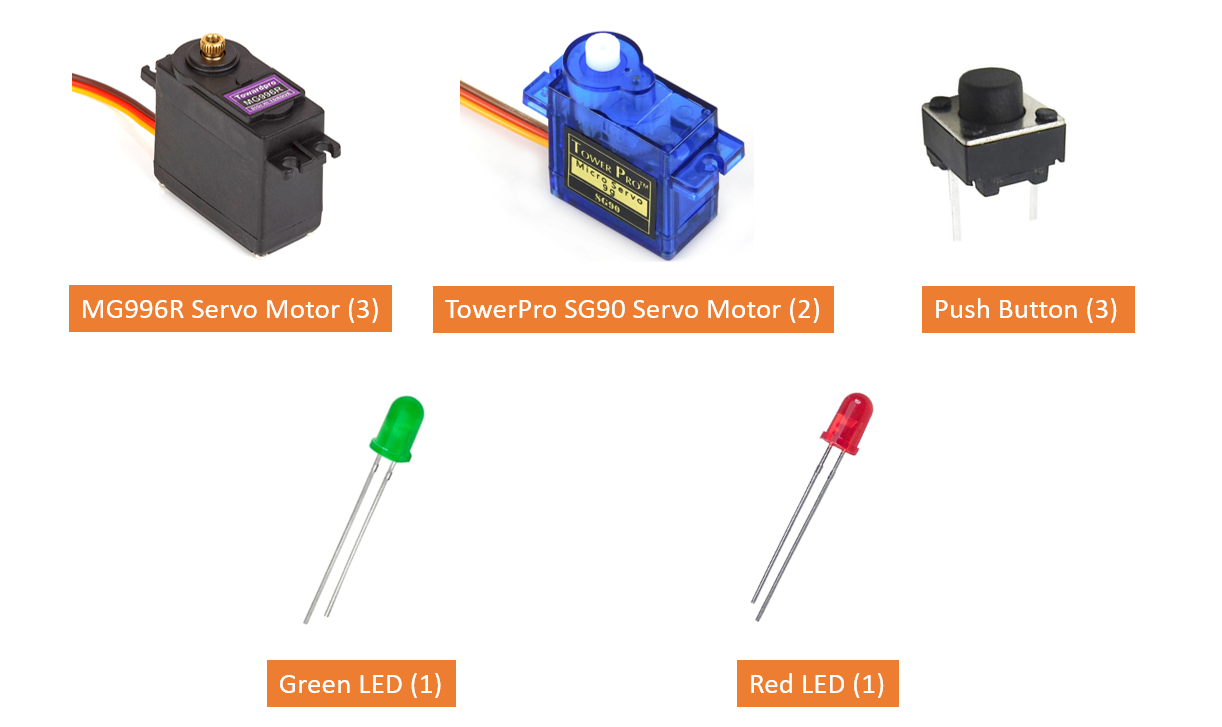
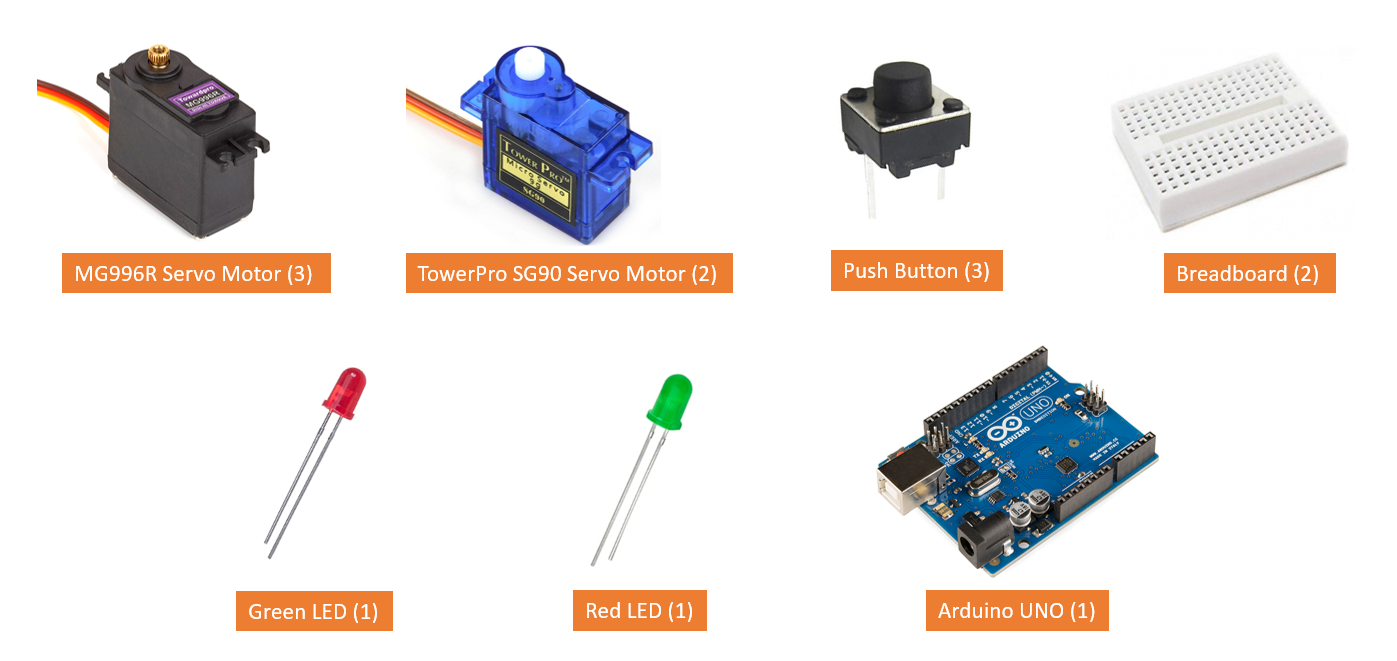
Add files via upload

diff --git a/ModuleProject.html b/ModuleProject.html
@@ -46,7 +46,7 @@
             <span style = "padding-left: 40px;"></span>
             
             <h2>Prototype</h2>
-            <p class="par">Since I am from the Diploma of Robotics and Mechatronics, I have some knowledge of making a 3D model as well as programming from scratch. However, I have never made an electrical schematic on my own. Therefore, I have decided to make a prototype.</p>
+            <p class="par">Since I am from the Diploma of Robotics and Mechatronics, I have some knowledge of making a 3D model as well as programming from scratch. However, I have never made an electrical schematic on my own. Therefore, I have decided to make a prototype to test whether my idea would or would not work.</p>
             
             <p class="par">Here's how the 3D model prototype looked like:</p>
             <figure><iframe src="https://hotmail196527.autodesk360.com/shares/public/SH35dfcQT936092f0e43699361576d931ffc?mode=embed" width="640" height="480" allowfullscreen="true" webkitallowfullscreen="true" mozallowfullscreen="true"  frameborder="0"></iframe></figure>
@@ -62,7 +62,7 @@
             <img src="ciruitprototype.png" style="padding-left: 20px;margin-top: 1%;width:640px;height:360px;margin-bottom: 0%;" >
             <figure><iframe src=https://create.arduino.cc/editor/jessicatan12/7c42b9af-6949-4e80-99c8-41a968559ba0/preview?embed style="height:510px;width:100%;margin:10px 0" frameborder=0></iframe></figure>
             <embed style="padding-left: 20px;margin-top: 0.5%;width:720px;height:450px;margin-bottom: 0.3%;" src="https://www.youtube.com/embed/pL3M1Fp5OXM">
-            <p class="par">I have learnt a lot from making the prototype. E.g. The tolerance value as the 3D printer does not print the exact size that I made in Fusion360, as well as designing the circuit all by myself. Now, let's move on to the final version of the Mini Robotic Arm project.</p>
+            <p class="par">I have learnt a lot from making the prototype. E.g. Tolerance value as the 3D printer does not print the exact size I have made in Fusion360, torque of the TowerPro SG90 Servo Motor, as well as designing the circuit all by myself. Now, let's move on to the final version of the Mini Robotic Arm project.</p>
             <span style = "padding-left: 40px;"></span>
             
             <h2>Final Mini Robotic Arm</h2>
@@ -75,12 +75,14 @@
             <p class="par"><strong><font color= #ff7200>Output Device :</font></strong> LEDs and Servo Motors.</p>
             <span style = "padding-left: 40px;"></span>
             <h4 class="par">How it'll work:</h4>
-            <p class="par">Since there are 3 Push Buttons, each Push Buttons contain a pre-programmed code. The <font color=00FF12>Green</font> LED would always be turned on when none of the Push Buttons are pressed. When any of the Push Button is pressed, the <font color=00FF12>Green</font> LED would turn off and the <font color=FF0000>Red </font> LED would turn on. The pre-programmed code would then be executed.</p>
+            <p class="par">Since there are 3 Push Buttons, each Push Button will contain a pre-programmed code. The <font color=00FF12>Green</font> LED would always be turned on when none of the Push Buttons are pressed. When any of the Push Button is pressed, the <font color=00FF12>Green</font> LED would turn off and the <font color=FF0000>Red </font> LED would turn on. The pre-programmed code would then be executed.</p>
             
             <span style = "padding-left: 40px;"></span>
             
             <h4 class="par">Bill of Materials:</h4>
-            <img src="BOM.png" style="padding-left: 20px;margin-top: 1%;width:820px;height:480px;margin-bottom: 3.5%;" >
+            <img src="BOM.png" style="padding-left: 20px;margin-top: 1%;width:960px;height:480px;margin-bottom: 0%;" >
+            <p class="par">I decided to use 3 MG996R Servo Motors as the torque is much higher. A higher torque value means that I do not have to worry about the weight the Servo Motor has to carry.</p>
+            <span style = "padding-left: 40px;"></span>
             
             <h4 class="par">Here's the final 3D Model:</h4>
             <figure><iframe src="https://hotmail196527.autodesk360.com/shares/public/SH35dfcQT936092f0e43a5886664a30bba13?mode=embed" width="640" height="480" allowfullscreen="true" webkitallowfullscreen="true" mozallowfullscreen="true"  frameborder="0"></iframe></figure>
@@ -130,11 +132,12 @@
             
             <h2>Final Electrical Circuit</h2>
             <img src="finalcircuit.png" style="padding-left: 20px;margin-top: 1%;width:960px;height:540px;margin-bottom: 1%;" >
-            <p class="par">For the electrical circuit, I will be using an external power source to power it. This is because I am having 5 servo motors in my circuit. The current drawn from these motors would be really high. The 5V source from the Arduino UNO would not be able to handle it. I have also removed 3 resistors, which was suppose to be connected by the Push Button. The reason why I am able to remove the resistors is due to my code. I will be explaining it below. </p>
+            <img src="robotwiring.PNG" style="padding-left: 20px;margin-top: 1%;width:960px;height:540px;margin-bottom: 1%;" >
+            <p class="par">For the electrical circuit, I will be using an external power source to power it. This is because I am having 5 servo motors in my circuit. The current drawn from these motors would be really high. The 5V source from the Arduino UNO would not be able to handle it. I have also removed 3 resistors, which was suppose to be connected with the Push Buttons. The reason why I am able to remove the resistors is due to my code. I will be explaining it at the Programming part.</p>
             
             <h2>Fabrication</h2>
             <p class="par">How I'll be fabricating my 3D model parts is by Laser Cutting and 3D Printing.</p>
-            <p class="par">For Laser Cutting, I would need to import the 2D face and get the .svg file.</p>
+            <p class="par">For Laser Cutting, I would need to import the 2D face of the 3D model, and get the .svg file.</p>
             <h4 class="par">Here's the final .svg files:</h4>
             <embed src="robotinkscape.pdf" type="application/pdf" />
             <embed style="padding-left: 20px;margin-top: 0.5%;width:720px;height:450px;margin-bottom: 0%;" src="https://www.youtube.com/embed/Lh-30nCYH2M">
@@ -149,10 +152,11 @@
             
             <h2>Troubleshooting</h2>
             <p class="par">After assembling the Mini Robotic Arm, I decided to test out each servo motor individually. The code I used is just to make the servo motor move 180 degrees clockwise, anticlockwise, and then stop. However, I have faced a problem. The servo motor would always reset itself halfway through the program.</p>
-            <embed style="padding-left: 20px;margin-top: 0.5%;width:720px;height:450px;margin-bottom: 0%;" src="https://www.youtube.com/embed/vOJMtAhLUOQ">
-            <p class="par">When I was testing the servo motor out, I was using a battery pack.</p>
-            <img src="batterybox.PNG" style="padding-left: 20px;margin-top: 0%;width:640px;height:360px;margin-bottom: 1%;" >
+            <embed style="padding-left: 20px;margin-top: 0.5%;width:720px;height:450px;margin-bottom: 0%;" src="https://www.youtube.com/embed/mm6hF-2Pb70">
+            <p class="par">The external power source when I was testing the servo motor, was battery pack.</p>
+            <img src="batterybox.PNG" style="padding-left: 20px;margin-top: 0%;width:640px;height:360px;margin-bottom: 0%;" >
             <p class="par">I went on to ask Mr Steven for help, and he suggested me to use a bench power supply or a 6V power adapter as the current flow would be much more stable. Therefore, I went on to use a 6V power adaptor I found at home to test it out. Thankfully, it worked.</p>
+            <img src="6Vadaptor.PNG" style="padding-left: 20px;margin-top: 0%;width:640px;height:360px;margin-bottom: 3.5%;" >
             
             <h2>Programming</h2>
             <figure><iframe src=https://create.arduino.cc/editor/jessicatan12/7d851e26-330a-40a1-bdb7-04f7bcb0b490/preview?embed style="height:510px;width:100%;margin:10px 0" frameborder=0></iframe></figure>
@@ -162,7 +166,7 @@
             <span style = "padding-left: 40px;"></span>
             
             <h2>Conclusion</h2>
-            <p class="par">Overall, I have learnt a lot after making this Mini Robotic Arm. Although it took a lot of time and effort to make one, I am really happy with the final product. I would also like to thank Mr Steven for his help and advice. This journey would definitely be a start as I wish to make something more complex in the future!</p>
+            <p class="par">Overall, I have learnt a lot after making this Mini Robotic Arm. Although it took a lot of time and effort to make one, I am really happy with the final product. If I had more time, I would try to make the physical circuit wirings neater, as well as improving the codes. I would like to thank Mr Steven for his help and advice. This journey would definitely be a start as I wish to make something more complex in the future!</p>
             <span style = "padding-left: 40px;"></span>
             
         </div>
